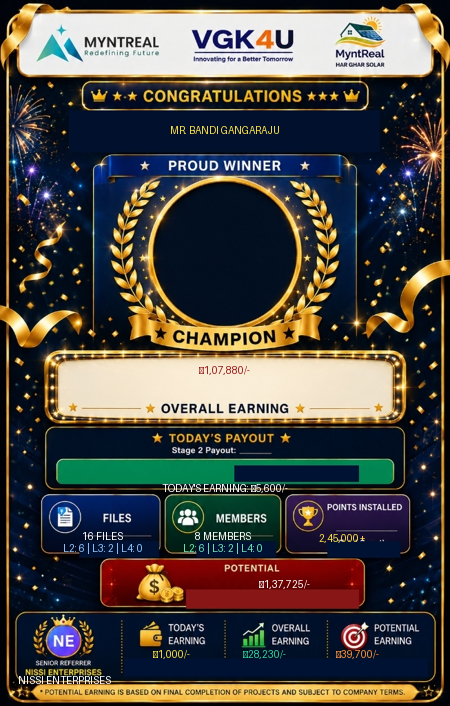
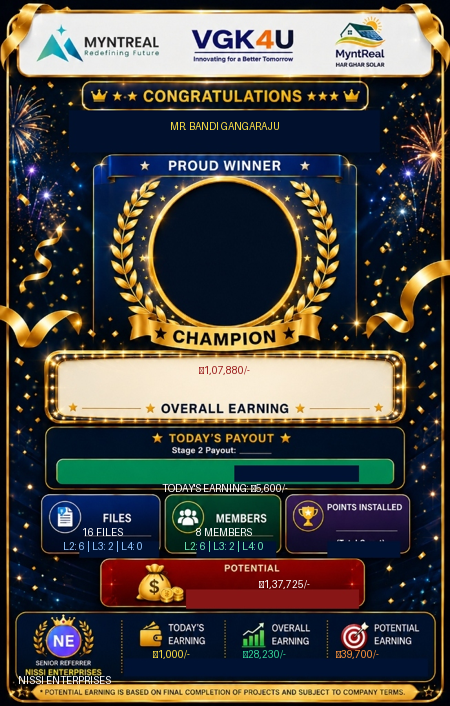
Remove Points Installed metric and enlarge font sizes for member name and earnings numbers

diff --git a/MyntReal_Latest/frontend/staff_vgk_members.html b/MyntReal_Latest/frontend/staff_vgk_members.html
@@ -7323,9 +7323,9 @@ function _renderCommDetailTable(partnerId) {
             <div id="prevTitle" style="display:none">CONGRATULATIONS</div>
             <div id="prevTodayTitle" style="display:none">TODAY'S PAYOUT</div>
 
-            <!-- 1. Dynamic Member Name (Slot Y: 118..148px) -->
-            <div style="position:absolute;top:122px;left:20px;right:20px;text-align:center;pointer-events:auto">
-              <div id="prevSubtitle" style="font-size:22px;font-weight:950;background:linear-gradient(180deg,#fffbeb 0%,#fde047 50%,#eab308 100%);-webkit-background-clip:text;-webkit-text-fill-color:transparent;filter:drop-shadow(0 3px 10px rgba(251,191,36,0.6));font-family:Georgia,serif;text-transform:uppercase;letter-spacing:0.8px">MR. BANDI GANGARAJU</div>
+            <!-- 1. Dynamic Member Name (Increased font size to 27px) -->
+            <div style="position:absolute;top:118px;left:15px;right:15px;text-align:center;pointer-events:auto">
+              <div id="prevSubtitle" style="font-size:27px;font-weight:950;background:linear-gradient(180deg,#fffbeb 0%,#fde047 50%,#eab308 100%);-webkit-background-clip:text;-webkit-text-fill-color:transparent;filter:drop-shadow(0 4px 12px rgba(251,191,36,0.7));font-family:Georgia,serif;text-transform:uppercase;letter-spacing:0.9px">MR. BANDI GANGARAJU</div>
             </div>
 
             <!-- 2. Dynamic Member Profile Photo inside laurel wreath circle (Center: 225, 229; Radius: 69px) -->
@@ -7334,45 +7334,45 @@ function _renderCommDetailTable(partnerId) {
               <div id="prevAvatar" style="width:100%;height:100%;display:flex;align-items:center;justify-content:center;background:linear-gradient(135deg,#1d4ed8,#7c3aed);color:white;font-size:42px;font-weight:900">BG</div>
             </div>
 
-            <!-- 3. Dynamic Overall Earning Amount inside Gold Plaque (Slot Y: 341..421px, Center Y: 370px) -->
-            <div style="position:absolute;top:355px;left:50px;right:50px;text-align:center;pointer-events:auto">
-              <div id="prevHighlight" style="font-size:32px;font-weight:950;color:#991b1b;letter-spacing:-0.5px;line-height:1;text-shadow:0 1px 2px rgba(255,255,255,0.9)">₹1,07,880/-</div>
+            <!-- 3. Dynamic Overall Earning Amount inside Gold Plaque (Increased font size to 38px) -->
+            <div style="position:absolute;top:352px;left:30px;right:30px;text-align:center;pointer-events:auto">
+              <div id="prevHighlight" style="font-size:38px;font-weight:950;color:#991b1b;letter-spacing:-0.5px;line-height:1;text-shadow:0 1px 2px rgba(255,255,255,0.9)">₹1,07,880/-</div>
             </div>
 
-            <!-- 4. Dynamic Today's Payout Subtext & Green Bar Total (Slot Y: 465..508px) -->
-            <div style="position:absolute;top:463px;left:60px;right:60px;text-align:center;pointer-events:auto">
-              <div id="prevTodayPayout" style="font-size:11px;font-weight:800;color:#ffffff;line-height:1.2">
+            <!-- 4. Dynamic Today's Payout Subtext & Green Bar Total (Increased font sizes) -->
+            <div style="position:absolute;top:461px;left:50px;right:50px;text-align:center;pointer-events:auto">
+              <div id="prevTodayPayout" style="font-size:12.5px;font-weight:800;color:#ffffff;line-height:1.2">
                 <!-- Payout breakup loaded dynamically -->
               </div>
             </div>
-            <div style="position:absolute;top:488px;left:80px;right:80px;text-align:center;pointer-events:auto">
-              <div style="font-size:13px;font-weight:950;color:#ffffff;text-transform:uppercase"><span id="prevTodayLabelText">Today's Earning</span>: <span id="prevTotalToday">₹5,600/-</span></div>
+            <div style="position:absolute;top:486px;left:60px;right:60px;text-align:center;pointer-events:auto">
+              <div style="font-size:16px;font-weight:950;color:#ffffff;text-transform:uppercase"><span id="prevTodayLabelText">Today's Earning</span>: <span id="prevTotalToday">₹5,600/-</span></div>
             </div>
 
-            <!-- 5. Dynamic 3-Box Metrics (Files | Members | Points) (Slot Y: 520..560px) -->
+            <!-- 5. Dynamic Metrics (Files | Members) (Points Installed Removed, Increased Font Sizes) -->
             <!-- Files Count (Slot X: 45..161px) -->
-            <div style="position:absolute;top:526px;left:45px;width:116px;text-align:center;pointer-events:auto">
-              <div id="prevFiles" style="color:#ffffff;font-size:11px;font-weight:950">16 FILES</div>
-              <div id="prevTeamBreakupFiles" style="font-size:7.5px;font-weight:900;color:#93c5fd;margin-top:1.5px">L2: 6 | L3: 2 | L4: 0</div>
+            <div style="position:absolute;top:524px;left:42px;width:122px;text-align:center;pointer-events:auto">
+              <div id="prevFiles" style="color:#ffffff;font-size:14px;font-weight:950">16 FILES</div>
+              <div id="prevTeamBreakupFiles" style="font-size:9px;font-weight:900;color:#93c5fd;margin-top:1px">L2: 6 | L3: 2 | L4: 0</div>
             </div>
 
             <!-- Members Count (Slot X: 165..281px) -->
-            <div style="position:absolute;top:526px;left:165px;width:116px;text-align:center;pointer-events:auto">
-              <div id="prevOverall" style="color:#ffffff;font-size:11px;font-weight:950">8 MEMBERS</div>
-              <div id="prevTeamBreakup" style="font-size:7.5px;font-weight:900;color:#6ee7b7;margin-top:1.5px">L2: 6 | L3: 2 | L4: 0</div>
+            <div style="position:absolute;top:524px;left:163px;width:122px;text-align:center;pointer-events:auto">
+              <div id="prevOverall" style="color:#ffffff;font-size:14px;font-weight:950">8 MEMBERS</div>
+              <div id="prevTeamBreakup" style="font-size:9px;font-weight:900;color:#6ee7b7;margin-top:1px">L2: 6 | L3: 2 | L4: 0</div>
             </div>
 
-            <!-- Points Installed (Slot X: 285..401px) -->
-            <div style="position:absolute;top:534px;left:285px;width:116px;text-align:center;pointer-events:auto">
-              <div style="font-size:11px;font-weight:950;color:#fde047">2,45,000+</div>
+            <!-- Points Installed (REMOVED / HIDDEN as requested) -->
+            <div style="display:none">
+              <div style="font-size:0px"></div>
             </div>
 
-            <!-- 6. Dynamic Potential Valuation Amount (Slot X: 170..390px, Y: 580..610px) -->
-            <div style="position:absolute;top:584px;left:170px;right:60px;text-align:center;pointer-events:auto">
-              <div id="prevPotential" style="font-size:16px;font-weight:950;color:#ffffff">₹1,37,725/-</div>
+            <!-- 6. Dynamic Potential Valuation Amount (Increased font size to 20px) -->
+            <div style="position:absolute;top:582px;left:165px;right:50px;text-align:center;pointer-events:auto">
+              <div id="prevPotential" style="font-size:20px;font-weight:950;color:#ffffff">₹1,37,725/-</div>
             </div>
 
-            <!-- 7. Dynamic Senior Referrer Row (Slot Y: 624..680px) -->
+            <!-- 7. Dynamic Senior Referrer Row (Increased font sizes to 13.5px) -->
             <div id="prevSeniorRow" style="position:absolute;top:624px;left:17px;width:415px;height:56px;pointer-events:auto">
               <!-- Senior Photo / Avatar -->
               <div style="position:absolute;top:2px;left:38px;width:54px;height:54px;border-radius:50%;overflow:hidden;background:#001233;display:flex;align-items:center;justify-content:center">
@@ -7381,12 +7381,12 @@ function _renderCommDetailTable(partnerId) {
               </div>
               
               <!-- Senior Name -->
-              <div id="prevSeniorName" style="position:absolute;top:56px;left:10px;width:110px;text-align:center;font-size:7.5px;font-weight:950;color:#ffffff;white-space:nowrap;overflow:hidden;text-overflow:ellipsis">NISSI ENTERPRISES</div>
+              <div id="prevSeniorName" style="position:absolute;top:56px;left:10px;width:110px;text-align:center;font-size:8px;font-weight:950;color:#ffffff;white-space:nowrap;overflow:hidden;text-overflow:ellipsis">NISSI ENTERPRISES</div>
 
-              <!-- Senior 3 Data Columns -->
-              <div id="prevSeniorToday" style="position:absolute;top:30px;left:135px;width:75px;text-align:center;font-size:11px;font-weight:950;color:#fde047">₹1,000/-</div>
-              <div id="prevSeniorEarning" style="position:absolute;top:30px;left:225px;width:80px;text-align:center;font-size:11px;font-weight:950;color:#34d399">₹28,230/-</div>
-              <div id="prevSeniorPotential" style="position:absolute;top:30px;left:318px;width:80px;text-align:center;font-size:11px;font-weight:950;color:#fb923c">₹39,700/-</div>
+              <!-- Senior 3 Data Columns (Increased font size) -->
+              <div id="prevSeniorToday" style="position:absolute;top:28px;left:132px;width:80px;text-align:center;font-size:13.5px;font-weight:950;color:#fde047">₹1,000/-</div>
+              <div id="prevSeniorEarning" style="position:absolute;top:28px;left:222px;width:85px;text-align:center;font-size:13.5px;font-weight:950;color:#34d399">₹28,230/-</div>
+              <div id="prevSeniorPotential" style="position:absolute;top:28px;left:315px;width:85px;text-align:center;font-size:13.5px;font-weight:950;color:#fb923c">₹39,700/-</div>
             </div>
 
             <!-- Notes & Instructions -->
